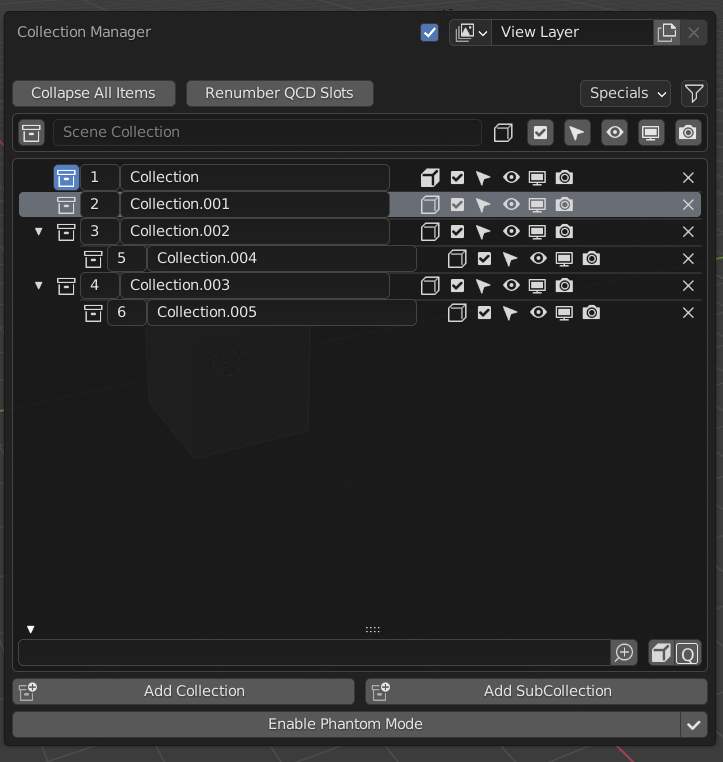
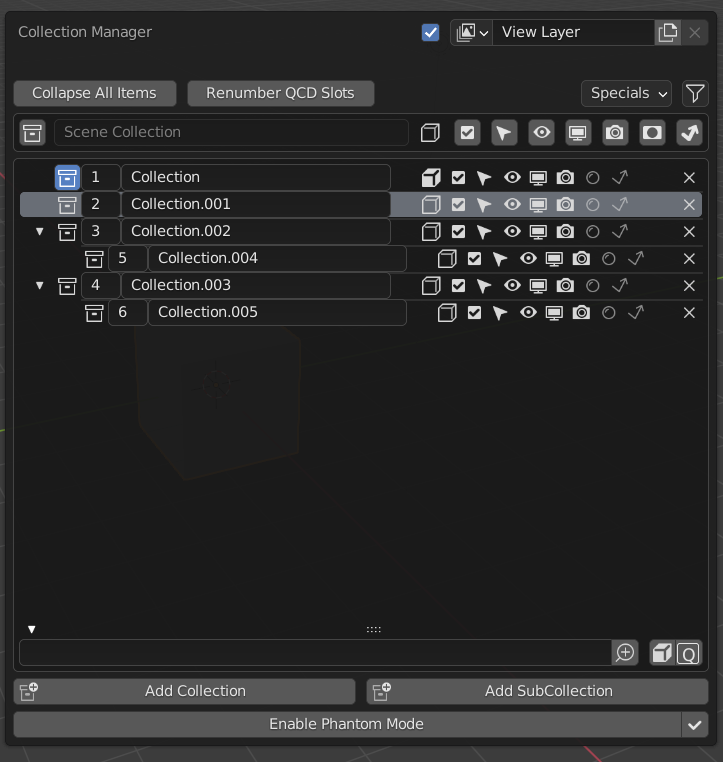
Update Collection Manager addon page with new features for 2.91
git-svn-id: https://svn.blender.org/svnroot/bf-manual/trunk/blender_docs@7378 c4de1f47-6596-e411-a384-0024e86c2797

diff --git a/manual/addons/interface/collection_manager.rst b/manual/addons/interface/collection_manager.rst
@@ -78,7 +78,7 @@ Scene Collection
       - :kbd:`LMB` -- Move object(s) to collection.
       - :kbd:`Shift-LMB` -- Add/Remove object(s) to/from collection.
 
-   Global Restrictions (checkbox, cursor, eye, screen, camera icons)
+   Global Restrictions (checkbox, cursor, eye, screen, camera, holdout, indirect only icons)
       See the Outliner page for information about
       :ref:`Restrictions <editors-outliner-interface-restriction_columns>`.
 
@@ -111,7 +111,7 @@ Tree View
       - :kbd:`LMB` -- Move object(s) to collection.
       - :kbd:`Shift-LMB` -- Add/Remove object(s) to/from collection.
 
-   Local Restrictions (checkbox, cursor, eye, screen, camera icons)
+   Local Restrictions (checkbox, cursor, eye, screen, camera, holdout, indirect only icons)
       - :kbd:`LMB` -- Toggle the collection's restriction on/off.
       - :kbd:`Shift-LMB` -- Isolate the collection's restriction, preserving parents if need be.
         Click again to restore the previous state.
@@ -125,7 +125,7 @@ Tree View
       Remove the collection.
 
    Filtering
-      By Name (box icon)
+      By Name
          A text field to filter collections by name.
 
       Invert (magnifying glass icon)
@@ -140,8 +140,16 @@ Tree View
          Filter collections by those designated as QCD slots (show only collections that
          correspond to a QCD slot). Shown only if QCD is enabled in the preferences.
 
+      .. hint::
+
+         All options can be combined with each other.
+
 Add Collection, Add Subcollection
    Self-explanatory.
+
+   .. note::
+
+      If the tree view is filtered when adding collections, new collections that do not fit the filter rules will be displayed until the filtering changes.
 
 Phantom Mode
    All visibility changes made in this mode will be discarded when it's disabled.
@@ -152,7 +160,7 @@ Phantom Mode
 
    Note: You will be unable to edit anything other than the restrictions while in Phantom Mode.
 
-Apply Phantom Mode (checkbox icon)
+Apply Phantom Mode (check mark icon)
    Applies all changes made to RTOs while in Phantom Mode and exits the mode.
 
 
@@ -164,30 +172,49 @@ collections by allowing you to designate up to 20 collections as QCD slots.
 You can then interact with these slots by using hotkeys or the widget
 to view or move objects to them.
 
-
 3D Viewport Header Widget
 ^^^^^^^^^^^^^^^^^^^^^^^^^
 
-The header widget is composed of 20 buttons in two rows and in groups of five
-where the first row start with slot 1 and the second with slot 11.
+The header widget is composed of the Quick View Toggles button and 20 QCD slots.
 
-The state of each slots is shown with a combination of the following indicators:
+Quick View Toggles (eye icon)
+   - Enable All QCD Slots.
+   - Enable All QCD Slots Isolated. (Enables all QCD slots and disables any non QCD slots)
+   - Disable All Non QCD Slots.
+   - Disable All Collections.
+   - Select All QCD Objects. (Select all objects that belong to enabled QCD slots)
+   - Discard QCD History. (Discards previous QCD slot states)
 
-- ``x`` -- Unassigned slot.
-- ``non-highlighted`` -- non-visible slot.
-- ``highlighted`` -- visible slot.
-- ``no icon`` -- no objects in the slot.
-- ``horizontal line icon`` -- objects are present in this slot.
-- ``circle icon`` -- one or more objects in this slot are selected.
-- ``dot icon`` -- the active object is in this slot.
+   .. rubric:: Hotkeys
+
+   - :kbd:`LMB` -- Enable All QCD Slots.
+   - :kbd:`Alt-LMB` -- Select All QCD Objects.
+   - :kbd:`LMB-Hold` -- Call menu with all Quick View Toggles.
 
 
-.. rubric:: Hotkeys
+QCD Slots
+   20 buttons in two rows in groups of five
+   where the first row starts with slot 1 and the second with slot 11.
 
-- :kbd:`LMB` -- View single slot excluding all others.
-- :kbd:`Shift-LMB` -- Add/remove slot to/from view.
-- :kbd:`Ctrl-LMB` -- Move selected objects to slot.
-- :kbd:`Shift-Ctrl-LMB` -- Add/remove selected objects to/from slot.
+   The state of each slot is shown with a combination of the following indicators:
+
+   - ``x`` -- Unassigned slot.
+   - ``non-highlighted`` -- non-visible slot.
+   - ``highlighted`` -- visible slot.
+   - ``no icon`` -- no objects in the slot.
+   - ``horizontal line icon`` -- objects are present in this slot.
+   - ``circle icon`` -- one or more objects in this slot are selected.
+   - ``dot icon`` -- the active object is in this slot.
+
+
+   .. rubric:: Hotkeys
+
+   - :kbd:`LMB` -- View single slot excluding all others.
+   - :kbd:`Shift-LMB` -- Add/remove slot to/from view.
+   - :kbd:`Ctrl-LMB` -- Move selected objects to slot.
+   - :kbd:`Shift-Ctrl-LMB` -- Add/remove selected objects to/from slot.
+   - :kbd:`Alt-LMB` -- Replace selection with objects in this slot.
+   - :kbd:`Shift-Alt-LMB` -- Add/remove slot objects to/from the selection.
 
 
 Move Widget
@@ -218,11 +245,16 @@ The Move Widget shares its layout and indicators with the 3D Viewport header wid
 - :kbd:`Alt-0` - :kbd:`Alt-9` -- View slot 11-20 (0 is slot 20). Excludes all others.
 - :kbd:`Shift-0` - :kbd:`Shift-9` -- Add/remove slot 1-10 (0 is slot 10) to/from view.
 - :kbd:`Shift-Alt-0` - :kbd:`Shift-Alt-9` -- Add/remove slot 11-20 (0 is slot 20) to/from view.
+- :kbd:`Shift-+` -- Enable All QCD Slots.
+- :kbd:`Shift-Alt-+` -- Enable All QCD Slots Isolated.
+- :kbd:`Shift-Ctrl-+` -- Disable All Non QCD Slots.
+- :kbd:`Ctrl-Alt-=` -- Disable All Collections.
+- :kbd:`Alt-=` -- Select All QCD Objects.
 
 
 .. rubric:: Edit Mode
 
-All Object Mode hotkeys. (Only available if enabled in the preferences.)
+All Object Mode hotkeys except for Select All QCD Objects. (Only available if enabled in the preferences.)
 
 - :kbd:`AccentGrave` -- Mesh Select Mode menu.
 
